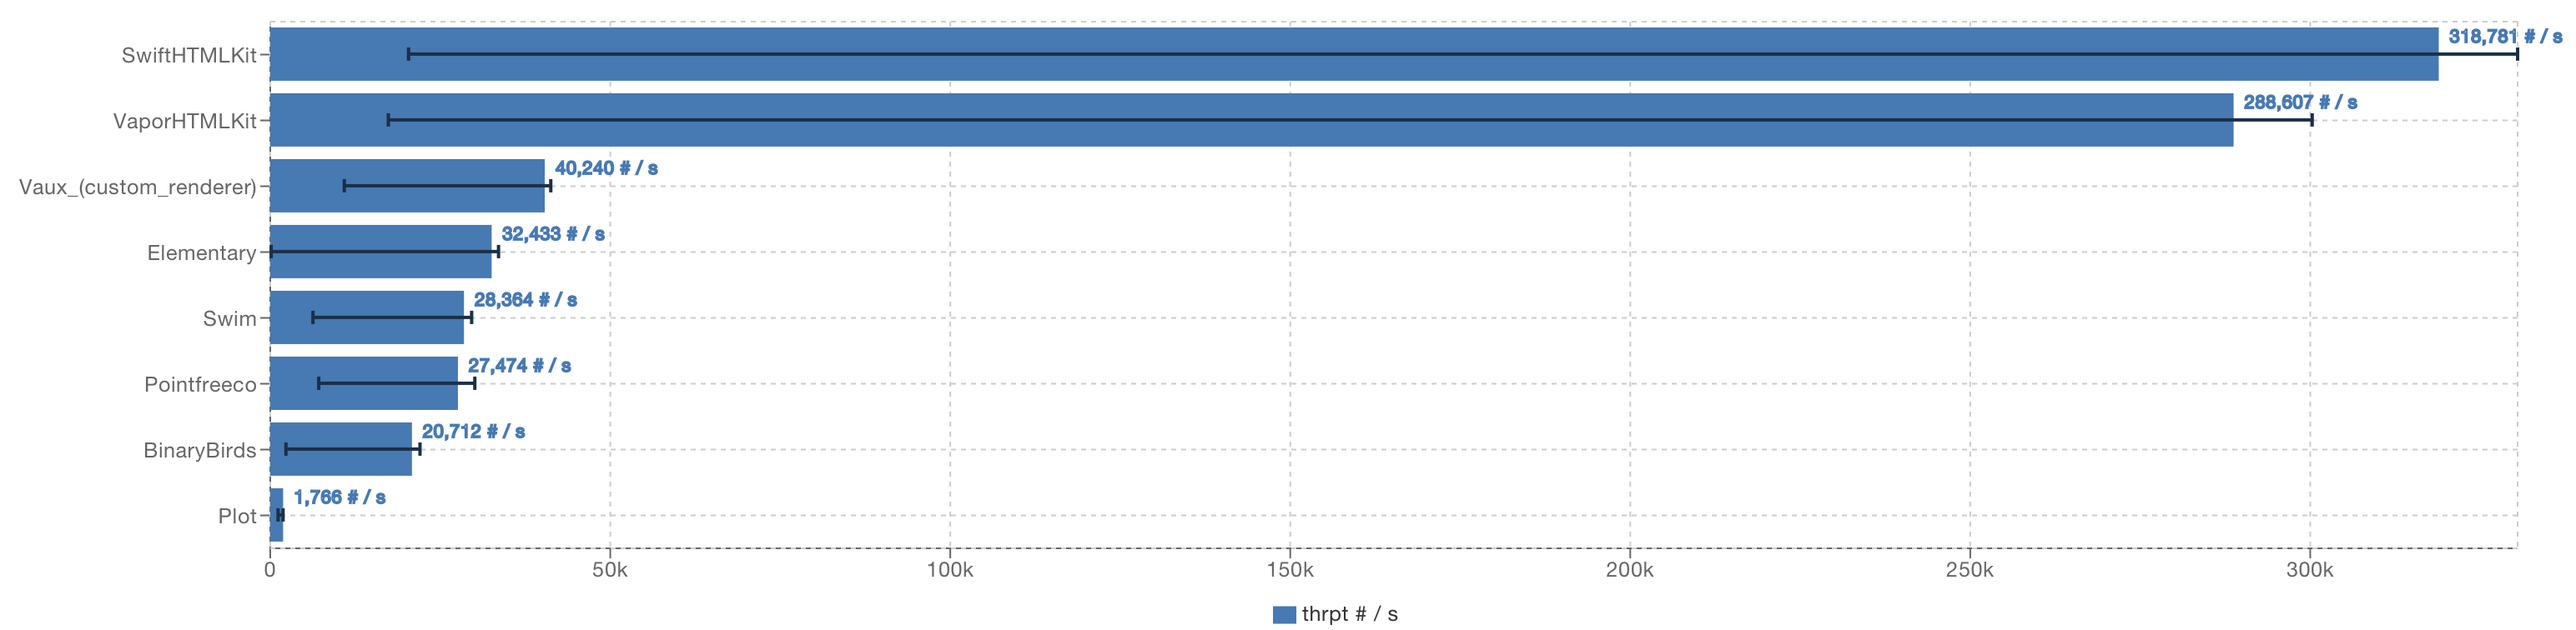
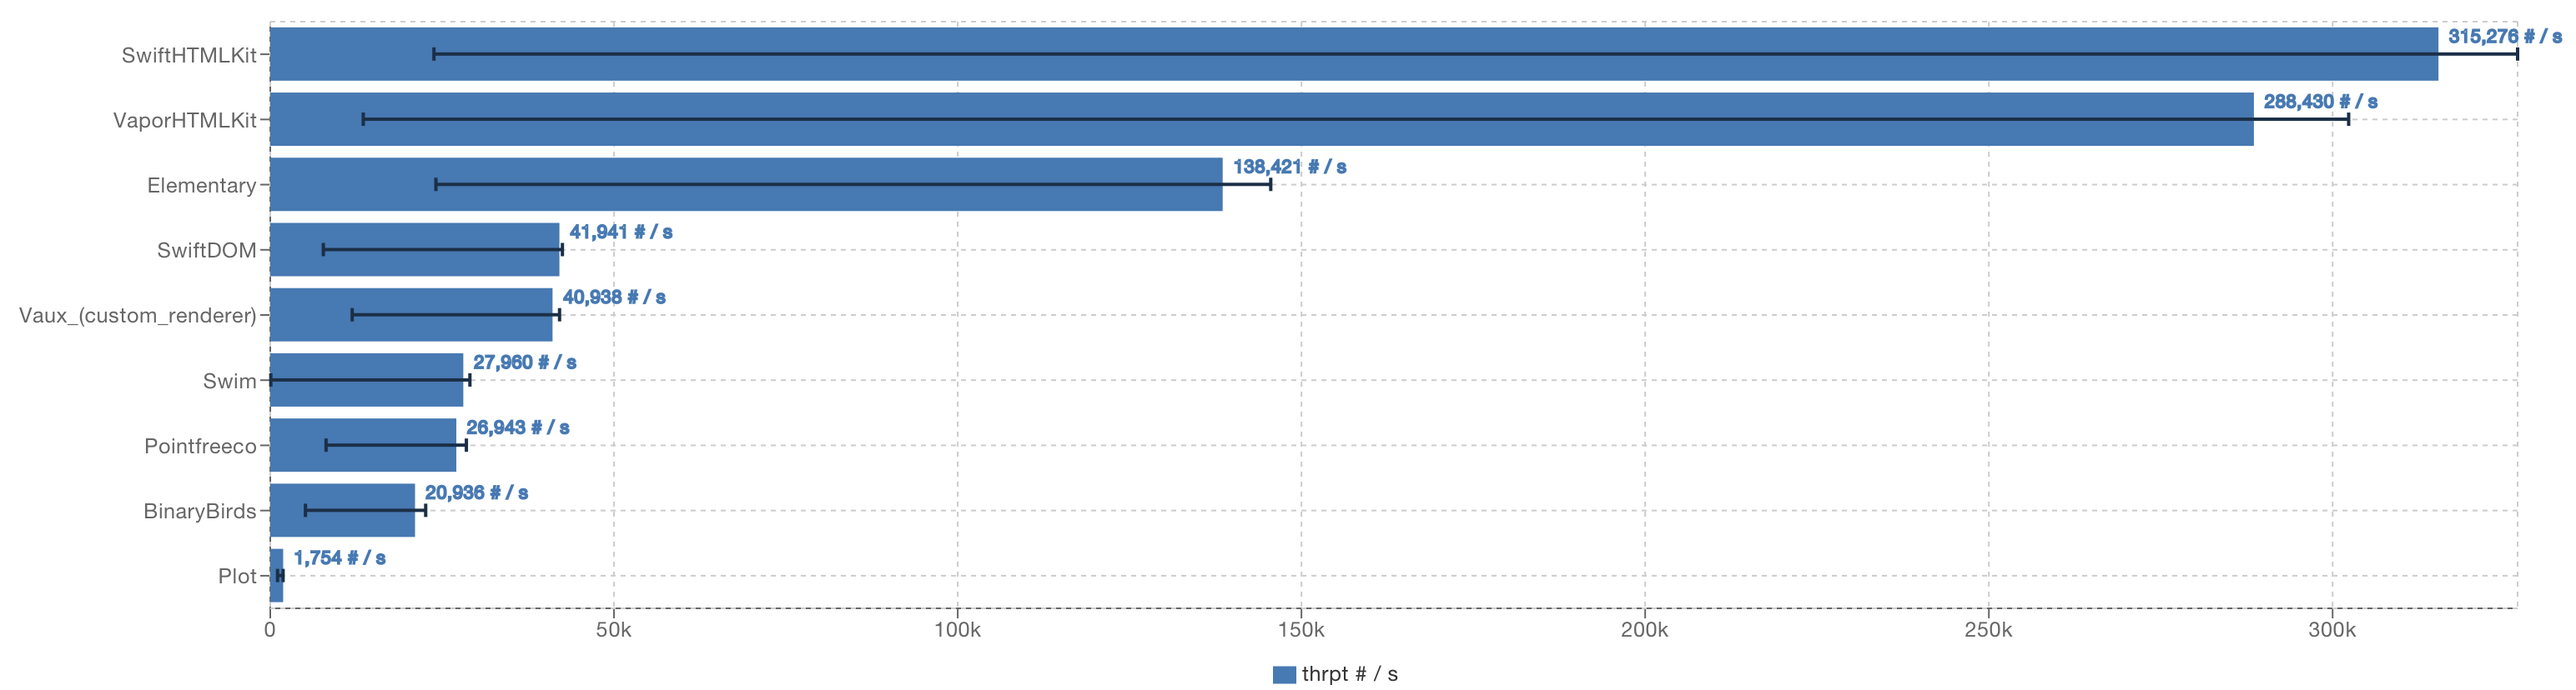
add `swift-dom` benchmark and... - added `swift-nio` dependency (for `ByteBuffer`) - updated `Elementary` to 0.4.1 - updated README benchmark pngs

Changed region(s): [[0.0, 0.0304, 0.9948, 0.9431], [0.0311, 0.0608, 0.0933, 0.0913], [0.4974, 0.9431, 0.5285, 0.9735]]

diff --git a/Benchmarks/Package.swift b/Benchmarks/Package.swift
@@ -9,30 +9,34 @@ let package = Package(
         .macOS(.v14)
     ],
     dependencies: [
-        // dsls
         .package(url: "https://github.com/ordo-one/package-benchmark", from: "1.27.0"),
         .package(url: "https://github.com/swiftlang/swift-syntax", from: "600.0.0"),
+        // dsls
         .package(name: "swift-htmlkit", path: "../"),
-        .package(url: "https://github.com/sliemeobn/elementary", from: "0.4.0"),
-        .package(url: "https://github.com/vapor-community/HTMLKit", from: "2.8.1"),
-        .package(url: "https://github.com/pointfreeco/swift-html", from: "0.4.1"),
+        .package(url: "https://github.com/sliemeobn/elementary", exact: "0.4.1"),
+        .package(url: "https://github.com/vapor-community/HTMLKit", exact: "2.8.1"),
+        .package(url: "https://github.com/pointfreeco/swift-html", exact: "0.4.1"),
         .package(url: "https://github.com/RandomHashTags/fork-bb-swift-html", branch: "main"),
-        .package(url: "https://github.com/JohnSundell/Plot", from: "0.14.0"),
+        .package(url: "https://github.com/JohnSundell/Plot", exact: "0.14.0"),
         //.package(url: "https://github.com/toucansites/toucan", from: "1.0.0-alpha.1"), // unstable
-        .package(url: "https://github.com/robb/Swim", from: "0.4.0"),
+        .package(url: "https://github.com/robb/Swim", exact: "0.4.0"),
         .package(url: "https://github.com/RandomHashTags/fork-Vaux", branch: "master"),
-        //.package(url: "https://github.com/tayloraswift/swift-dom", from: "1.1.0"), // bad exports
+        .package(url: "https://github.com/RandomHashTags/fork-swift-dom", branch: "master"),
         //.package(url: "https://github.com/TokamakUI/Tokamak", from: "0.11.1"), // swift-benchmark problem
 
-        .package(url: "https://github.com/vapor/leaf", from: "4.4.0"),
+        .package(url: "https://github.com/vapor/leaf", exact: "4.4.0"),
 
         // networking
+        .package(url: "https://github.com/apple/swift-nio", from: "2.75.0"),
         .package(url: "https://github.com/vapor/vapor", from: "4.106.0"),
         .package(url: "https://github.com/hummingbird-project/hummingbird", from: "2.1.0")
     ],
     targets: [
         .target(
             name: "Utilities",
+            dependencies: [
+                .product(name: "NIOCore", package: "swift-nio")
+            ],
             path: "Benchmarks/Utilities"
         ),
         .target(
@@ -63,8 +67,7 @@ let package = Package(
             name: "TestSwiftDOM",
             dependencies: [
                 "Utilities",
-                //.product(name: "DOM", package: "swift-dom", moduleAliases: ["DOM":"SwiftDOM"]),
-                //.product(name: "HTML", package: "swift-dom", moduleAliases: ["HTML":"SwiftDOMHTML"])
+                .product(name: "DOM", package: "fork-swift-dom", moduleAliases: ["DOM":"SwiftDOM"])
             ],
             path: "Benchmarks/SwiftDOM"
         ),
@@ -81,7 +84,7 @@ let package = Package(
             dependencies: [
                 "Utilities",
                 .product(name: "HTMLKit", package: "swift-htmlkit", moduleAliases: ["HTMLKit":"SwiftHTMLKit"]),
-                .product(name: "HTMLKit", package: "HTMLKit", moduleAliases: ["HTMLKit":"VaporHTMLKit"]),
+                .product(name: "HTMLKit", package: "HTMLKit", moduleAliases: ["HTMLKit":"VaporHTMLKit"])
             ],
             path: "Benchmarks/SwiftHTMLKit"
         ),

diff --git a/Benchmarks/Benchmarks/UnitTests/UnitTests.swift b/Benchmarks/Benchmarks/UnitTests/UnitTests.swift
@@ -26,19 +26,25 @@ struct UnitTests {
         "Elementary" : ElementaryTests(),
         "Plot" : PlotTests(),
         "Pointfreeco" : SwiftHTMLPFTests(),
-        //"SwiftDOM" : SwiftDOMTests(),
+        "SwiftDOM" : SwiftDOMTests(),
         "SwiftHTMLKit" : SwiftHTMLKitTests(),
         "Swim" : SwimTests(),
         "VaporHTMLKit" : VaporHTMLKitTests(),
         "Vaux (custom renderer)" : VauxTests()
     ]
+    // Some tests fail due to:
+    // - Plot closes void tags
+    // - Swim doesn't minify (keeps new line characters and some whitespace); uses a dictionary for meta values; closes void tags
+    // - Vaux is doodoo
+
     @Test func staticHTML() {
         let expected_value:String = libraries["SwiftHTMLKit"]!.staticHTML()
-        // Swim doesn't minify (keeps new line characters and some whitespace)
         for (key, value) in libraries {
             var string:String = value.staticHTML()
             if key == "Swim" {
                 string.replace("\n", with: "")
+            } else if key == "SwiftDOM" {
+                string.replace("'", with: "\"")
             }
             #expect(string == expected_value, Comment(rawValue: key))
         }
@@ -46,13 +52,12 @@ struct UnitTests {
     @Test func dynamicHTML() {
         let context:HTMLContext = HTMLContext()
         let expected_value:String = libraries["SwiftHTMLKit"]!.dynamicHTML(context)
-        // Plot closes void tags
-        // Swim doesn't minify (keeps new line characters and some whitespace); uses a dictionary for meta values; closes void tags
-        // Vaux is doodoo
         for (key, value) in libraries {
             var string:String = value.dynamicHTML(context)
             if key == "Swim" {
                 string.replace("\n", with: "")
+            } else if key == "SwiftDOM" {
+                string.replace("'", with: "\"")
             }
             #expect(string == expected_value, Comment(rawValue: key))
         }

diff --git a/Sources/HTMLKitMacros/HTMLElement.swift b/Sources/HTMLKitMacros/HTMLElement.swift
@@ -14,22 +14,16 @@ import HTMLKitUtilities
 import struct Foundation.Data
 #endif
 
-/*#if canImport(NIOCore)
 import struct NIOCore.ByteBuffer
-#endif*/
 
 enum HTMLElement : ExpressionMacro {
     static func expansion(of node: some FreestandingMacroExpansionSyntax, in context: some MacroExpansionContext) throws -> ExprSyntax {
         let string:String = parse_macro(context: context, expression: node.macroExpansion!)
-        var set:Set<HTMLElementType?> = [.htmlUTF8Bytes, .htmlUTF16Bytes, .htmlUTF8CString]
+        var set:Set<HTMLElementType?> = [.htmlUTF8Bytes, .htmlUTF16Bytes, .htmlUTF8CString, .htmlByteBuffer]
 
         #if canImport(Foundation)
         set.insert(.htmlData)
         #endif
-
-        /*#if canImport(NIOCore)
-        set.insert(.htmlByteBuffer)
-        #endif*/
 
         if set.contains(HTMLElementType(rawValue: node.macroName.text)) {
             let has_interpolation:Bool = !string.ranges(of: try! Regex("\\((.*)\\)")).isEmpty
@@ -53,10 +47,8 @@ enum HTMLElement : ExpressionMacro {
                     return "Data(\(raw: bytes([UInt8](string.utf8))))"
                 #endif
 
-                /*#if canImport(NIOCore)
                 case .htmlByteBuffer:
                     return "ByteBuffer(bytes: \(raw: bytes([UInt8](string.utf8))))"
-                #endif*/
 
                 default: break
             }
@@ -373,9 +365,7 @@ enum HTMLElementType : String, CaseIterable {
     case htmlData
     #endif
 
-    /*#if canImport(NIOCore)
     case htmlByteBuffer
-    #endif*/
     
     case a
     case abbr

diff --git a/Benchmarks/Benchmarks/SwiftHTMLKit/SwiftHTMLKit.swift b/Benchmarks/Benchmarks/SwiftHTMLKit/SwiftHTMLKit.swift
@@ -7,6 +7,7 @@
 
 import Utilities
 import SwiftHTMLKit
+import NIOCore
 
 package struct SwiftHTMLKitTests : HTMLGenerator {
     package init() {}
@@ -21,8 +22,42 @@ package struct SwiftHTMLKitTests : HTMLGenerator {
             )
         )
     }
+
+    package func staticHTMLUTF8Bytes() -> [UInt8] {
+        #htmlUTF8Bytes(
+            #head(
+                #title("StaticView")
+            ),
+            #body(
+                #h1("Swift HTML Benchmarks")
+            )
+        )
+    }
+
+    package func staticHTMLUTF16Bytes() -> [UInt16] {
+        #htmlUTF16Bytes(
+            #head(
+                #title("StaticView")
+            ),
+            #body(
+                #h1("Swift HTML Benchmarks")
+            )
+        )
+    }
+
+    package func staticHTMLByteBuffer() -> ByteBuffer {
+        #htmlByteBuffer(
+            #head(
+                #title("StaticView")
+            ),
+            #body(
+                #h1("Swift HTML Benchmarks")
+            )
+        )
+    }
+
     // performance notes
-    // - maping makes unneccessary copies and hurts throughput
+    // - maping makes unnecessary copies and hurts throughput
     // - interpolation hurts performance, a lot less than maping but still noticeable
     // - adding strings (concatenation) is faster than interpolation
     // - calculating the size of the result than assigning the contents in a String is significantly worse than interpolation and concatenation

diff --git a/Benchmarks/Benchmarks/SwiftDOM/SwiftDOM.swift b/Benchmarks/Benchmarks/SwiftDOM/SwiftDOM.swift
@@ -5,10 +5,9 @@
 //  Created by Evan Anderson on 10/13/24.
 //
 
-/*
+
 import Utilities
 import DOM
-import HTML
 
 package struct SwiftDOMTests : HTMLGenerator {
     package init() {}
@@ -23,7 +22,7 @@ package struct SwiftDOMTests : HTMLGenerator {
         return "\(document)"
     }
     package func dynamicHTML(_ context: HTMLContext) -> String {
-        let qualities:(inout DOM.HTML.ContentEncoder) throws -> () = {
+        let qualities:(inout HTML.ContentEncoder) throws -> () = {
             for quality in context.user.qualities {
                 $0[.li] = quality
             }
@@ -32,7 +31,7 @@ package struct SwiftDOMTests : HTMLGenerator {
             $0[.html] {
                 $0[.head] {
                     $0[.meta] { $0[name: .charset] = context.charset }
-                    $0[.title] { $0[name: .title] = context.title }
+                    $0[.title] = context.title
                     $0[.meta] {
                         $0[name: .content] = context.meta_description
                         $0[name: .name] = "description"
@@ -61,4 +60,12 @@ package struct SwiftDOMTests : HTMLGenerator {
         }
         return "\(document)"
     }
-}*/
+}
+
+// required to compile
+extension String:HTML.OutputStreamable
+{
+}
+extension String:SVG.OutputStreamable
+{
+}

diff --git a/Benchmarks/Benchmarks/Benchmarks/Benchmarks.swift b/Benchmarks/Benchmarks/Benchmarks/Benchmarks.swift
@@ -28,6 +28,7 @@ let benchmarks = {
         "Plot" : PlotTests(),
         "Pointfreeco" : SwiftHTMLPFTests(),
         "SwiftHTMLKit" : SwiftHTMLKitTests(),
+        "SwiftDOM" : SwiftDOMTests(),
         "Swim" : SwimTests(),
         "VaporHTMLKit" : VaporHTMLKitTests(),
         "Vaux (custom renderer)" : VauxTests()
@@ -49,4 +50,26 @@ let benchmarks = {
             }
         }
     }
+
+    /*let test:SwiftHTMLKitTests = SwiftHTMLKitTests()
+    Benchmark("SwiftHTMLKit static (StaticString)") {
+        for _ in $0.scaledIterations {
+            blackHole(test.staticHTML())
+        }
+    }
+    Benchmark("SwiftHTMLKit static ([UInt8])") {
+        for _ in $0.scaledIterations {
+            blackHole(test.staticHTMLUTF8Bytes())
+        }
+    }
+    Benchmark("SwiftHTMLKit static ([UInt16])") {
+        for _ in $0.scaledIterations {
+            blackHole(test.staticHTMLUTF16Bytes())
+        }
+    }
+    Benchmark("SwiftHTMLKit static (ByteBuffer)") {
+        for _ in $0.scaledIterations {
+            blackHole(test.staticHTMLByteBuffer())
+        }
+    }*/
 }

diff --git a/Sources/HTMLKit/HTMLKit.swift b/Sources/HTMLKit/HTMLKit.swift
@@ -11,10 +11,7 @@ import HTMLKitUtilities
 import struct Foundation.Data
 #endif
 
-
-/*#if canImport(NIOCore)
 import struct NIOCore.ByteBuffer
-#endif*/
 
 // MARK: StaticString equality
 public extension StaticString {
@@ -48,10 +45,8 @@ public macro htmlUTF8CString<T: ExpressibleByStringLiteral>(attributes: [HTMLEle
 public macro htmlData<T: ExpressibleByStringLiteral>(attributes: [HTMLElementAttribute] = [], xmlns: T? = nil, _ innerHTML: T...) -> Data = #externalMacro(module: "HTMLKitMacros", type: "HTMLElement")
 #endif
 
-/*#if canImport(NIOCore)
 @freestanding(expression)
 public macro htmlByteBuffer<T: ExpressibleByStringLiteral>(attributes: [HTMLElementAttribute] = [], xmlns: T? = nil, _ innerHTML: T...) -> ByteBuffer = #externalMacro(module: "HTMLKitMacros", type: "HTMLElement")
-#endif*/
 
 // MARK: Elements
 

diff --git a/Tests/HTMLKitTests/HTMLKitTests.swift b/Tests/HTMLKitTests/HTMLKitTests.swift
@@ -12,9 +12,7 @@ import HTMLKit
 import struct Foundation.Data
 #endif
 
-/*#if canImport(NIOCore)
 import struct NIOCore.ByteBuffer
-#endif*/
 
 // MARK: Escaping HTML
 struct HTMLKitTests {
@@ -58,9 +56,7 @@ extension HTMLKitTests {
         #if canImport(Foundation)
         let _:Data = #htmlData("")
         #endif
-        /*#if canImport(NIOCore)
         let _:ByteBuffer = #htmlByteBuffer("")
-        #endif*/
 
         //let bro:String = ""
         //let _:[UInt8] = #htmlUTF8Bytes("\(bro)")
@@ -85,11 +81,9 @@ extension HTMLKitTests {
         #htmlData("")
     }
     #endif
-    /*#if canImport(NIOCore)
     func representation6() -> ByteBuffer {
         #htmlByteBuffer("")
     }
-    #endif*/
 }
 
 // MARK: Element tests

diff --git a/Package.swift b/Package.swift
@@ -16,12 +16,15 @@ let package = Package(
         ),
     ],
     dependencies: [
-        .package(url: "https://github.com/swiftlang/swift-syntax.git", from: "600.0.0"),
+        .package(url: "https://github.com/swiftlang/swift-syntax", from: "600.0.0"),
+        .package(url: "https://github.com/apple/swift-nio", from: "2.75.0")
     ],
     targets: [
         .target(
             name: "HTMLKitUtilities",
-            dependencies: []
+            dependencies: [
+                .product(name: "NIOCore", package: "swift-nio")
+            ]
         ),
         .macro(
             name: "HTMLKitMacros",

diff --git a/README.md b/README.md
@@ -191,8 +191,9 @@ Use a different html macro. Currently supported types (more to come with new lan
 ## Benchmarks
 - Libraries tested
   - [BinaryBuilds/swift-html](https://github.com/BinaryBirds/swift-html) v1.7.0 (patched version [here](https://github.com/RandomHashTags/fork-bb-swift-html))
-  - [sliemeobn/elementary](https://github.com/sliemeobn/elementary) v0.4.0
+  - [sliemeobn/elementary](https://github.com/sliemeobn/elementary) v0.4.1
   - [JohnSundell/Plot](https://github.com/JohnSundell/Plot) v0.14.0
+  - [tayloraswift/swift-dom](https://github.com/tayloraswift/swift-dom) v1.1.0 (patched version [here](https://github.com/RandomHashTags/fork-swift-dom))
   - [RandomHashTags/swift-htmlkit](https://github.com/RandomHashTags/swift-htmlkit) v0.6.0 (this library)
   - [pointfreeco/swift-html](https://github.com/pointfreeco/swift-html) v0.4.1
   - [robb/Swim](https://github.com/robb/Swim) v0.4.0
